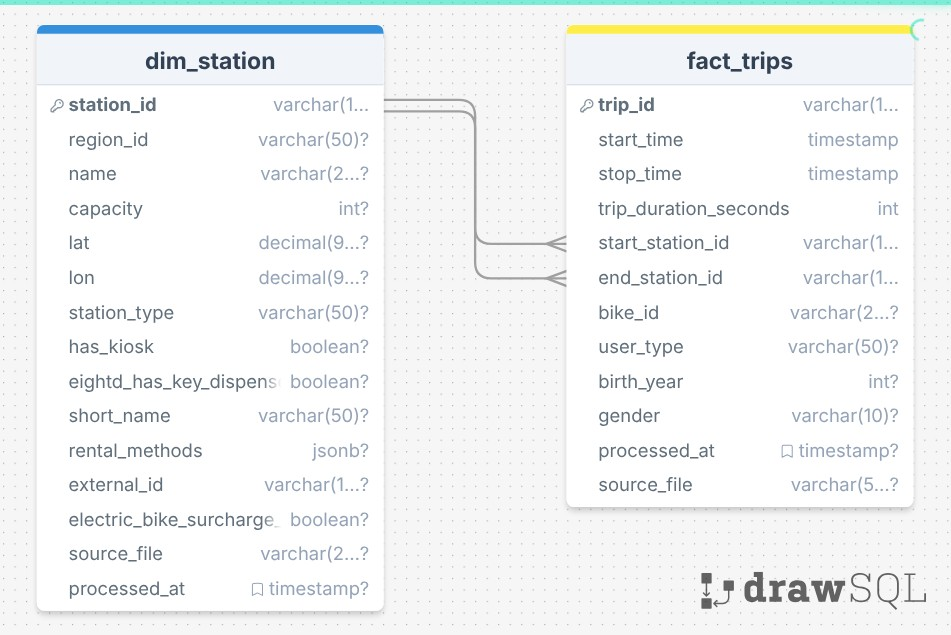
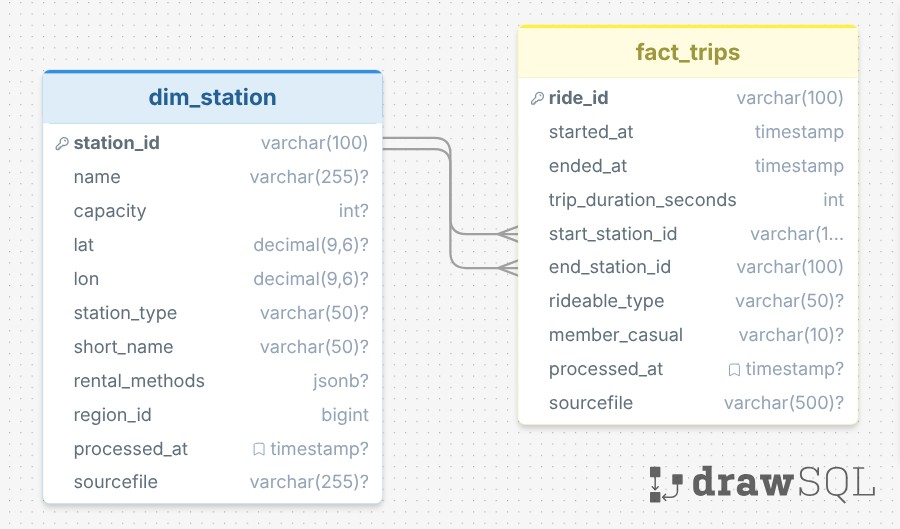
update

diff --git a/README.md b/README.md
@@ -1,57 +1,46 @@
-# Citibike Intelligence Platform
-
 > ⚠ Work in Progress - This project is under active development and not yet complete.
+
+
+# Citibike Intelligence Platform
+The Citibike Intelligence Platform is a comprehensive data engineering and analytics solution designed to process and analyze Citibike's trip and station data. The platform ingests both batch and real-time data, transforms it through a multi-layered architecture, and provides insights via dashboards and machine learning models.
 ## Project Overview
 ![Project Overview](docs/images/architecture.png)
 
-## Data Engineering Phase
 
-### Terraform (Infrastructure as Code)
-Using IaC to create the following resources:
-#### 🔵 Azure
-- Resource Group
-- ADLS Gen2 Storage Account
-- Container (bronze)
-#### ❄ Snowflake
-- Warehouse (CITIBIKE_DWH)
-- Database (CITIBIKE_DB)
-- Schemas (EXTERNAL, SILVER, GOLD)
-- 2 File Formats (CSV, JSON)
-- An External Stage (BRONZE_STAGE)
-- Storage Integration
+## Data Engineering
 
-### Data Sources
-1. **Batch** Processed Data
-    - Trip Data
-    - Station Metadata
-2. **Real-Time** Data
-    - Station Status (GBFS API)
-<!-- 3. External Data
-    - **Weather** Data
-    - Calendar / Events -->
 
-### Airflow
-Two DAGs:
-- citibike_monthly_stations_ingestion
-![alt text](docs/images/citibike_monthly_stations_ingestion.png)    
-- citibike_trips_ingestion
-![alt text](docs/images/citibike_trips_ingestion.png)
 
-## Analytics Engineering Phase
-Using dbt
-### Data Modeling & Warehouse
-![Data Model](docs/images/schema.jpg)
-- Trips Data -> fact_trips
-- Station Metadata -> dim_station
-### Data Quality
-Stage-gate approach: external → validate → staging → validate → marts
+### Batch Data Pipeline
+- Ingesting historical trip data from S3 -> Airflow DAGs -> dbt transformations -> Snowflake Data Warehouse
+- Ingesting station metadata from GBFS API -> Airflow DAGs -> dbt transformations -> Snowflake Data Warehouse
 
-## Streaming Data Pipeline
-Source - Station Status (GBFS API) -> Python Producer -> Kafka Topic -> [Grafana Dashboard](streaming/dashboard.png)
-## Data Analytics Phase
-### Power BI Dashboards
-### Reverse ETL
-## Machine Learning Phase
+### Streaming Data Pipeline
+Source - Station Status (GBFS API) -> Python Producer -> Kafka Topic -> Real-time Grafana Dashboard
+
+![Grafana Dashboard](real-time/bikes_real_time.png)
+
+
+### Data Quality and Validation
+Using a stage-gate approach to ensure data quality at each step of the pipeline:
+1. **External Stage**: Raw data is ingested into a staging area (Bronze layer) without any transformations.
+2. **Validation**: Data is validated for completeness, accuracy, and consistency. Any issues
+are logged and alerted for manual review.
+3. **Staging Stage**: Validated data is transformed and loaded into the Silver layer, where it is cleaned and enriched.
+4. **Validation**: The Silver layer undergoes another round of validation to ensure data integrity
+before being loaded into the **Gold layer** (data marts) for analytics and reporting.
+
+Useing Elementary Data package for data quality checks in dbt:
+![ Data Quality Dashboard ](docs/images/data_quality.png)
+
+### Observability, Monitoring and Alerting
+### Unit Testing and CI/CD pipeline
+
+## Data Analytics
+### 1. Power BI Dashboards
+### 2. Deep analytics with Jupyter Notebooks
+### 3. Reverse ETL
+## Machine Learning
 Some ideas for future work:
 - **Demand Forecasting**: Predict bike demand at each station for the next hour/day.
 - **Anomaly Detection**: Identify unusual patterns in bike usage or station status.

diff --git a/docs/setup.md b/docs/setup.md
@@ -1,5 +1,3 @@
-
-
 # Setup dbt & airflow
 Using astro cli, cosmos
 
